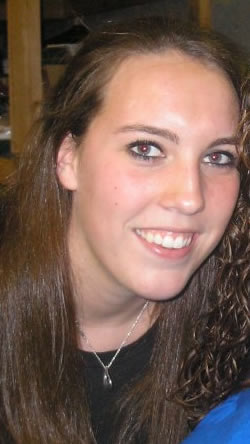
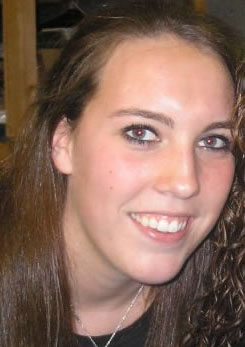
resized melanie's picture and removed broken img links

diff --git a/coaches.php b/coaches.php
@@ -1,5 +1,10 @@
 <!DOCTYPE html>
 <?php require 'includes/head.inc.php' ?>
+<style>
+  .bio {
+    width: 20%;
+  }
+</style>
 <title>Coaches - UCD</title>
 <div id="wrap">
   <!-- Include nagivation bar -->
@@ -30,14 +35,12 @@
       </div>
       <hr class="featurette-divider">
       <div class="featurette bio-right">
-        <img class="featurette-image pull-right polaroid bio" src="">
         <h2 class="featurette-heading">Scott Page<span class="muted"> | Assistant Coach</span></h2>
         <p class="lead">
           Scott started swimming with Upper County when he was 7 years old. This will be his second year coaching on the team. Scott is currently pursuing his bachelors degree in biology at Virginia Wesleyan College.
       </div>
       <hr class="featurette-divider">
       <div class="featurette bio-left">
-        <img class="featurette-image pull-left polaroid bio" src="">
         <h2 class="featurette-heading">Yang Yang<span class="muted"> | Assistant Coach</span></h2>
         <p class="lead">
           Yang joined Upper County when he was 13 years old. He was an assistant coach on the team during his senior year in high school in 2008. Yang recently graduated from MIT with a master of engineering degree and will be working for Blizzard Entertainment starting in the fall.
